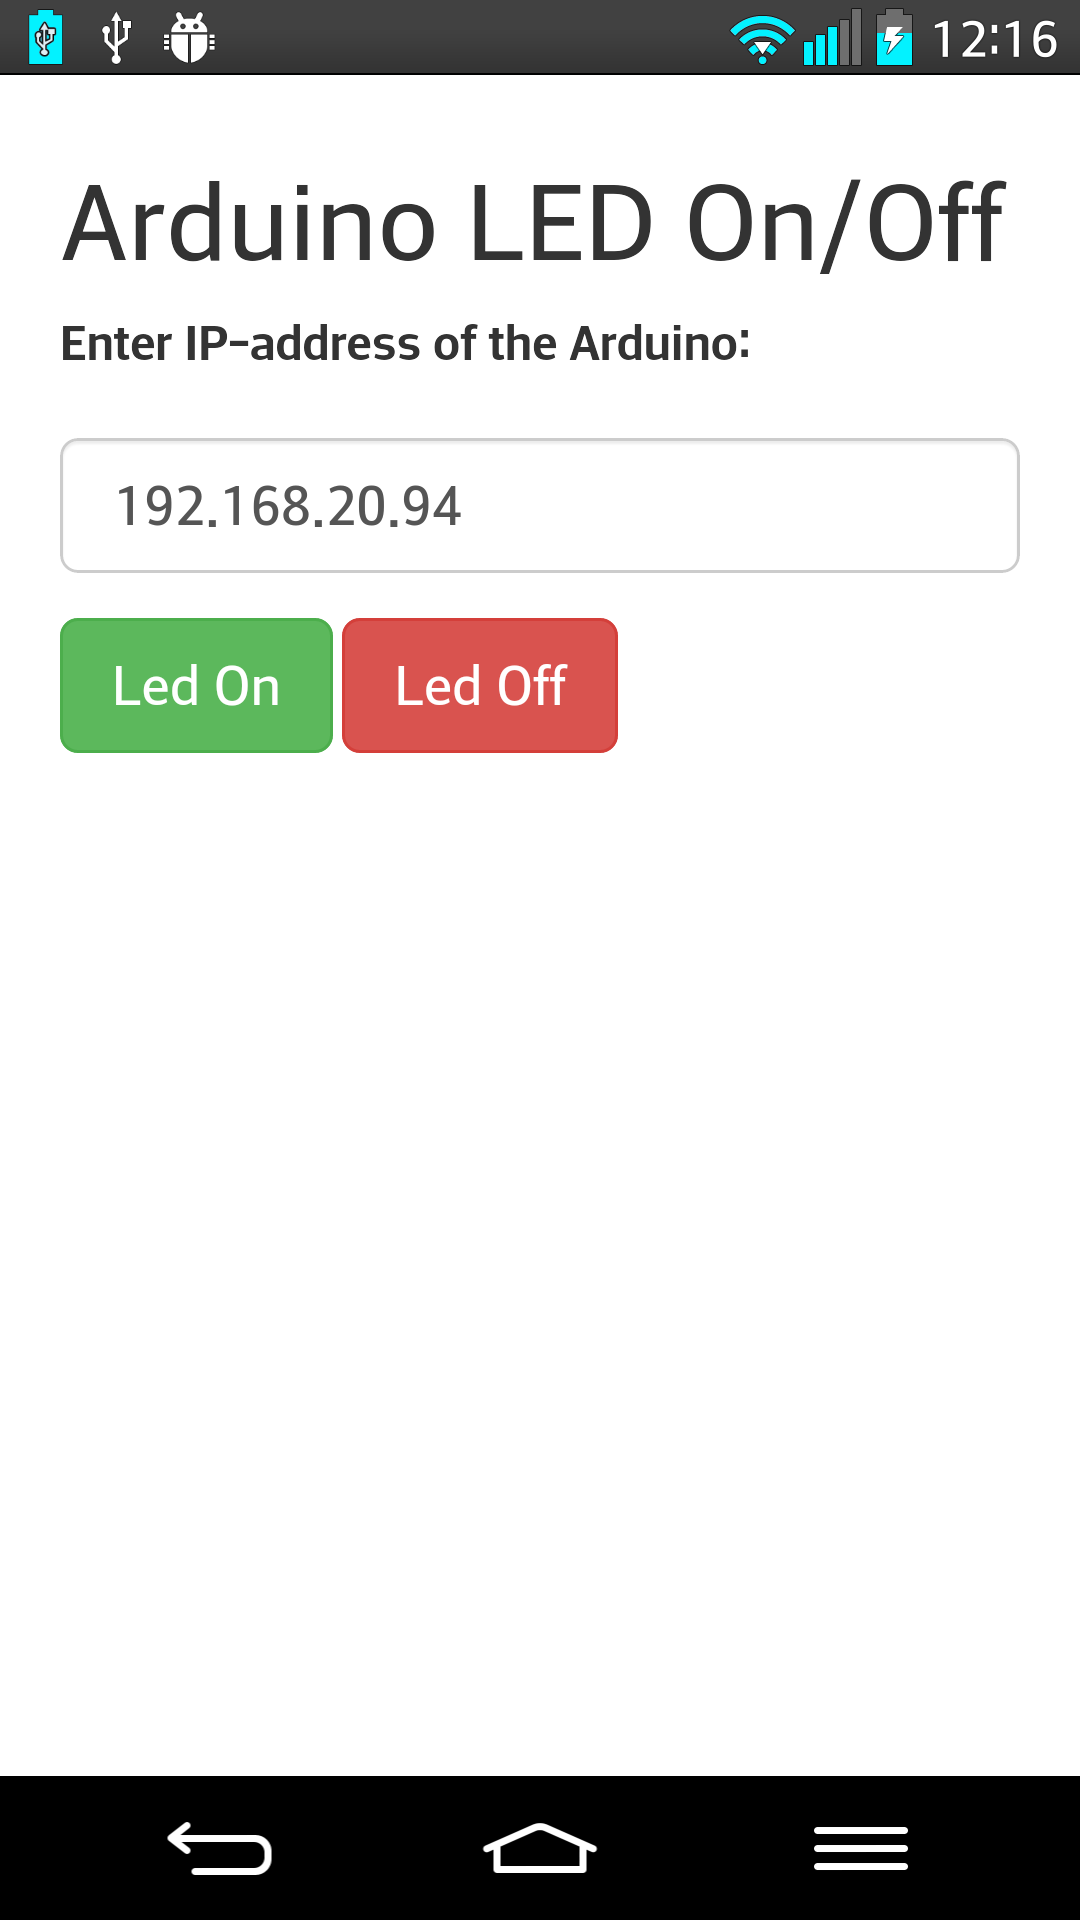
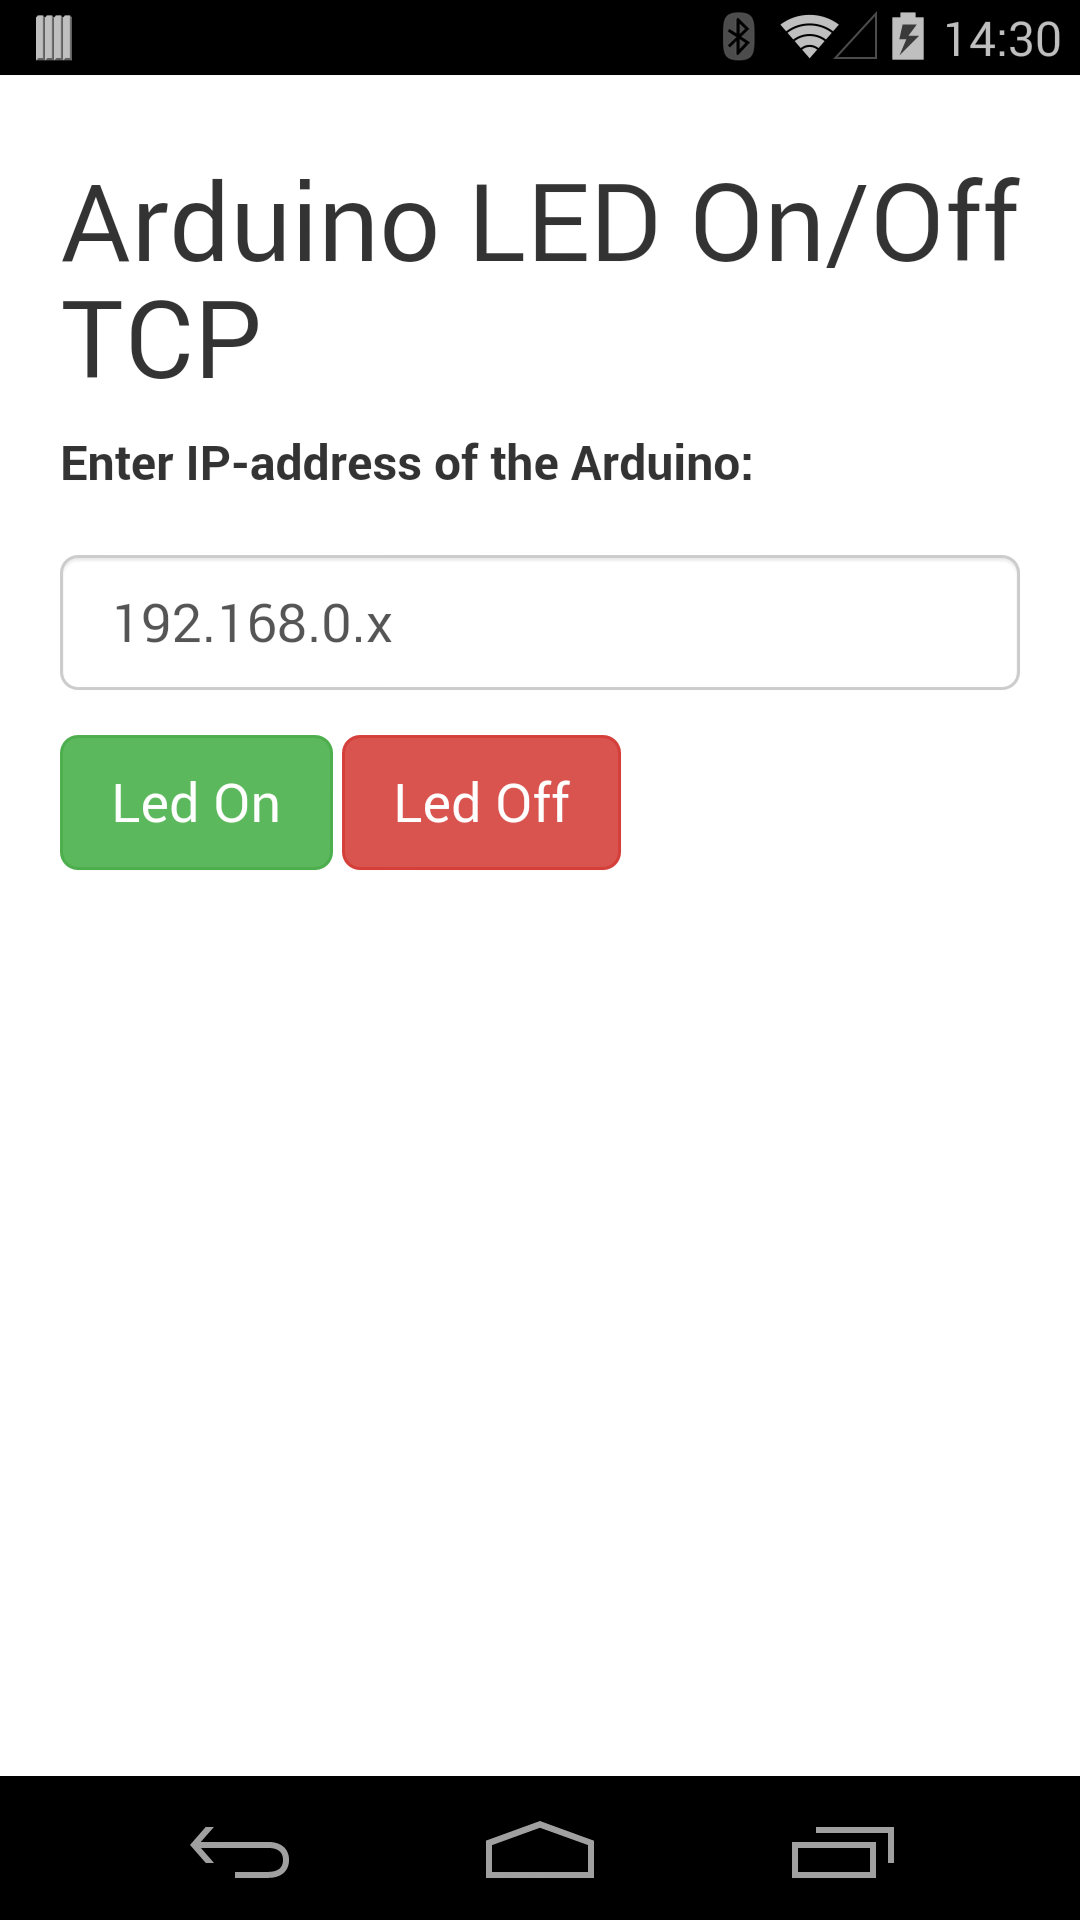
Updated examples documentation for 0.7.0 release.

diff --git a/examples.html b/examples.html
@@ -52,10 +52,12 @@ Copyright (c) 2013 EvoThings AB
 		src="images/hue-lights-screenshot.png" alt="Hue Lights"/></a>
 	<a href="cordova-basic.html"><img class="img-example-gallery-screenshot"
 		src="images/cordova-basic-screenshot.png" alt="Cordova Basic"/></a>
-	<a href="arduino-led-onoff-wifi.html"><img class="img-example-gallery-screenshot"
-		src="images/arduino-led-onoff-wifi-screenshot.png" alt="Arduino LED On/Off Wifi"/></a>
-	<a href="arduino-led-blink-wifi.html"><img class="img-example-gallery-screenshot"
-		src="images/arduino-led-blink-wifi-screenshot.png" alt="Arduino LED Blink Script"/></a>
+	<a href="arduino-led-onoff-tcp.html"><img class="img-example-gallery-screenshot"
+		src="images/arduino-led-onoff-tcp-screenshot.png" alt="Arduino LED On/Off TCP"/></a>
+	<a href="arduino-led-onoff-ble.html"><img class="img-example-gallery-screenshot"
+		src="images/arduino-led-onoff-ble-screenshot.png" alt="Arduino LED On/Off BLE"/></a>
+	<a href="arduino-scriptable-tcp.html"><img class="img-example-gallery-screenshot"
+		src="images/arduino-scriptable-tcp-screenshot.png" alt="Arduino LED Blink Script"/></a>
 	<a href="ble-scan.html"><img class="img-example-gallery-screenshot"
 		src="images/ble-scan-screenshot.png" alt="BLE Scan"/></a>
 	<a href="ble-discovery.html"><img class="img-example-gallery-screenshot"

diff --git a/arduino-ble.html b/arduino-ble.html
@@ -52,6 +52,15 @@ Copyright (c) 2013-2014 Evothings AB
 	<p>Please note that BLE support on Android is still not fully mature. As a result, you may experience difficulties running this example. Known problems related to Evothings Studio include interactively reloading the app from the Workbench. If the app stops working, restart the Evothings client app.</p>
 
 	<p>You need and Arduino board with a BLE shield.</p>
+
+	<p>For the Arduino setup, you need:</p>
+	<ul>
+		<li>LED</li>
+		<li>Resistor 2200 Ohm</li>
+		<li>Potentiometer</li>
+		<li>BLE shield</li>
+		<li>Install BLE libraries in the Arduino IDE library folder. You can download these libraries here: <a href="http://evomedia.evothings.com/download/arduino-ble-libraries.zip">arduino-ble-libraries.zip</a></li>
+
 </div>
 
 <div class="box">

diff --git a/arduino-led-onoff-ble.html b/arduino-led-onoff-ble.html
@@ -57,9 +57,10 @@ Copyright (c) 2013-2014 Evothings AB
 
 	<p>For the Arduino setup, you need:</p>
 	<ul>
-		<li>BLE shield</li>
 		<li>LED</li>
 		<li>Resistor 2200 Ohm</li>
+		<li>BLE shield</li>
+		<li>Install BLE libraries in the Arduino IDE library folder. You can download these libraries here: <a href="http://evomedia.evothings.com/download/arduino-ble-libraries.zip">arduino-ble-libraries.zip</a></li>
 	</ul>
 
 	<p>Here is the sketch:</p>

diff --git a/hyper.css b/hyper.css
@@ -70,7 +70,7 @@ a {
 
 .content-index {
 	float: right;
-	width: 25%;
+	width: 30%;
 	margin: 1em 0em 1.5em 1.5em;
 	padding: 1em 1em 1em 1em;
 	border: 1px solid #000000;
